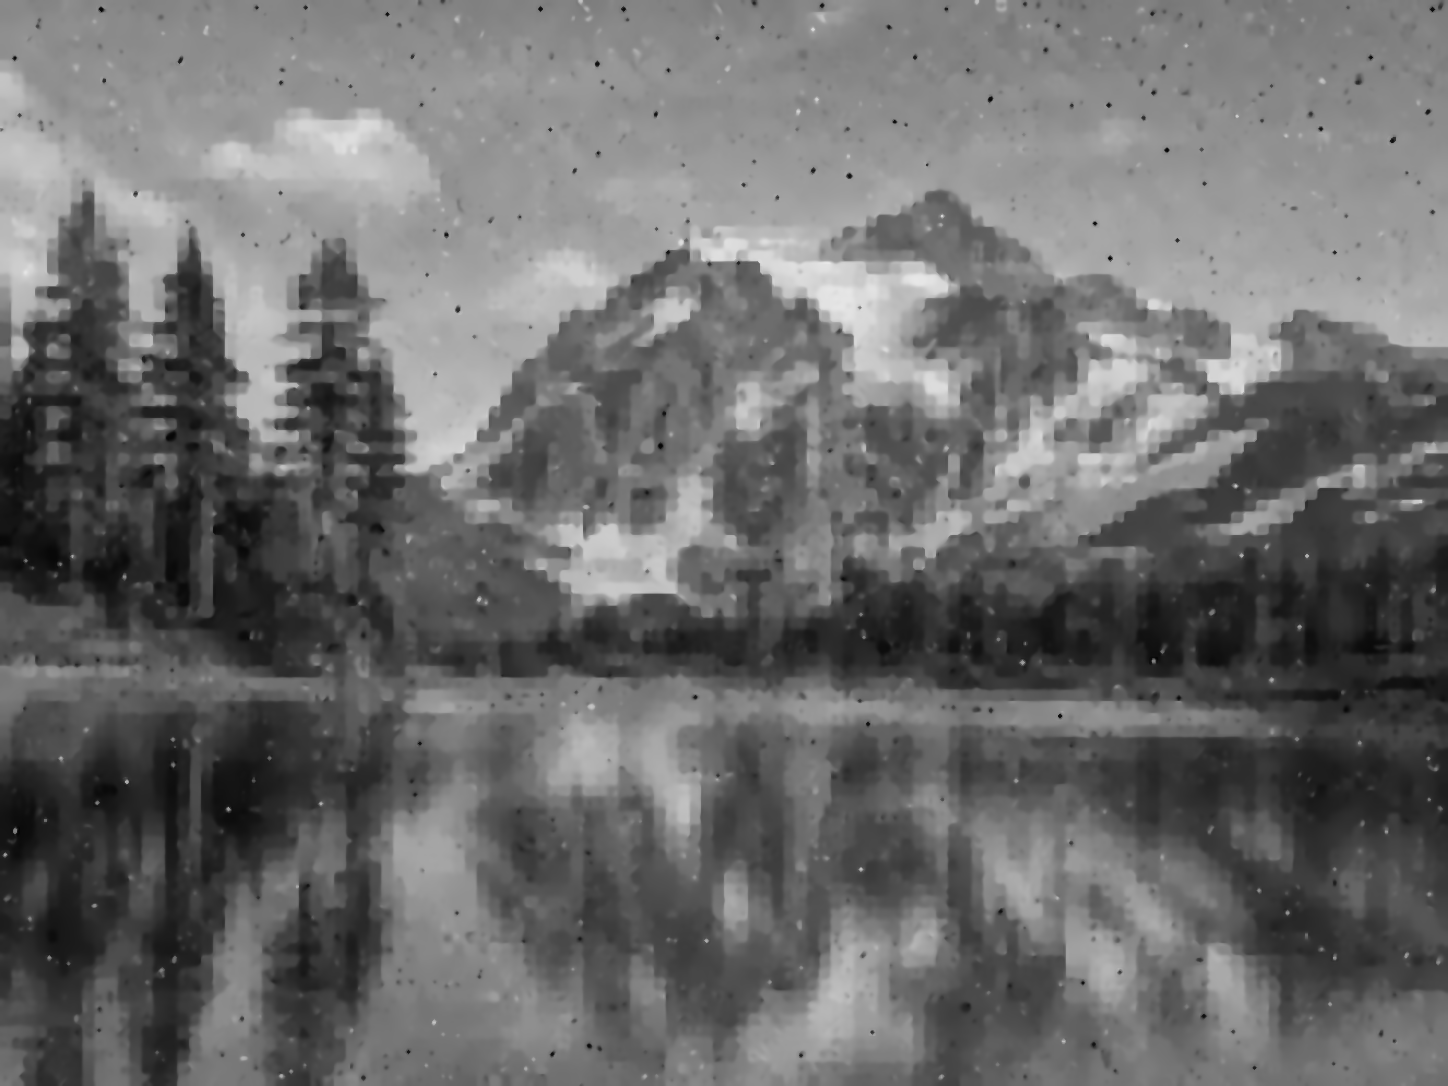
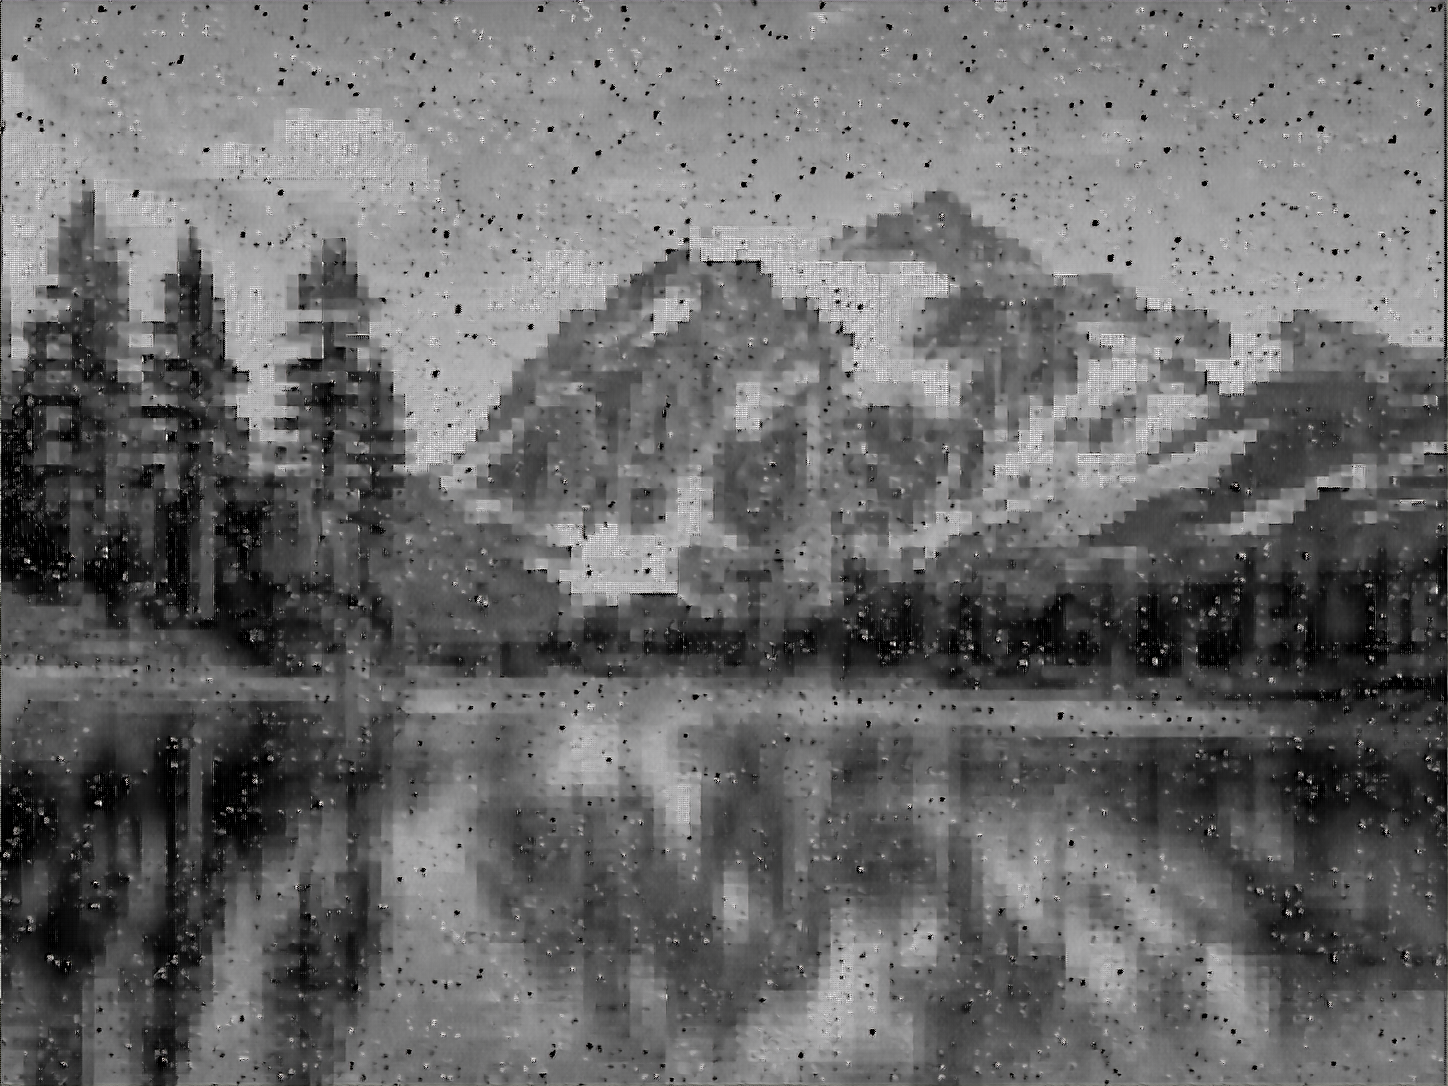
Chore: Restructure repository for final submission guidelines

diff --git a/create_ppt.py b/create_ppt.py
@@ -1,0 +1,87 @@
+from pptx import Presentation
+
+def create_hackathon_ppt():
+    prs = Presentation()
+
+    # Slide 1: Title
+    slide_1 = prs.slides.add_slide(prs.slide_layouts[0])
+    slide_1.shapes.title.text = "PixelAI: AI-Based Restoration of Degraded Images"
+    slide_1.placeholders[1].text = "HPC-OPTIMIZED • NAFNET • IMAGE RESTORATION\nTeam: Gresha Mandape, Manas Bhole, Shradha Joshi, Vinaya Gabale\nIndira University"
+
+    # Slide 2: Problem
+    slide_2 = prs.slides.add_slide(prs.slide_layouts[1])
+    slide_2.shapes.title.text = "01 • THE CHALLENGE"
+    tf = slide_2.placeholders[1].text_frame
+    tf.text = "Problem Statement Addressed: AI-Based Restoration of Degraded Images"
+    tf.add_paragraph().text = "High-resolution wafer scans are essential for micro-defect detection."
+    tf.add_paragraph().text = "Sensor noise and downsampling obscure critical circuit details."
+    tf.add_paragraph().text = "Goal: fast, high-throughput restoration without blur or hallucinated structure."
+
+    # Slide 3: Concept
+    slide_3 = prs.slides.add_slide(prs.slide_layouts[1])
+    slide_3.shapes.title.text = "02 • CORE CONCEPT"
+    tf = slide_3.placeholders[1].text_frame
+    tf.text = "Idea Description: SemiconNAFNet + algorithmic emergency-rescue filter"
+    tf.add_paragraph().text = "Pipeline: Degraded Scan -> SemiconNAFNet -> PixelShuffle -> Restored"
+    tf.add_paragraph().text = "Activation-free design reduces memory round-trips for efficient GPU execution."
+    tf.add_paragraph().text = "Targets: Speckle/Gaussian, Impulse noise, and Super-resolution."
+
+    # Slide 4: Architecture
+    slide_4 = prs.slides.add_slide(prs.slide_layouts[1])
+    slide_4.shapes.title.text = "03 • ARCHITECTURE & TRAINING"
+    tf = slide_4.placeholders[1].text_frame
+    tf.text = "Proposed Solution"
+    tf.add_paragraph().text = "Model: Input -> SimpleGate -> Depthwise Blocks -> PixelShuffle -> Output"
+    tf.add_paragraph().text = "Training: torch.amp.autocast + Cosine Annealing LR"
+    tf.add_paragraph().text = "Loss: Direct L1 + numerically safe 2D FFT frequency loss"
+
+    # Slide 5: Innovation
+    slide_5 = prs.slides.add_slide(prs.slide_layouts[1])
+    slide_5.shapes.title.text = "04 • WHAT DIFFERENTIATES US"
+    tf = slide_5.placeholders[1].text_frame
+    tf.text = "Innovation & Uniqueness"
+    tf.add_paragraph().text = "HPC-first design: Tensor-Core aligned channels + memory-mapped ingestion"
+    tf.add_paragraph().text = "Safe spectral loss avoids unstable FFT magnitudes"
+    tf.add_paragraph().text = "Rescue bypass: OpenCV fallback (fastNlMeansDenoising + medianBlur)"
+
+    # Slide 6: Results
+    slide_6 = prs.slides.add_slide(prs.slide_layouts[1])
+    slide_6.shapes.title.text = "05 • EVIDENCE"
+    tf = slide_6.placeholders[1].text_frame
+    tf.text = "Quantitative Results"
+    tf.add_paragraph().text = "PSNR: 28.24 dB"
+    tf.add_paragraph().text = "SSIM: 0.7222"
+    tf.add_paragraph().text = "Visual Evidence: Complete noise-spike reduction with preserved structural integrity."
+
+    # Slide 7: Implementation
+    slide_7 = prs.slides.add_slide(prs.slide_layouts[1])
+    slide_7.shapes.title.text = "06 • IMPLEMENTATION"
+    tf = slide_7.placeholders[1].text_frame
+    tf.text = "Technology & Feasibility"
+    tf.add_paragraph().text = "Tech stack: PyTorch, OpenCV, NumPy, PIL, Matplotlib"
+    tf.add_paragraph().text = "Hardware: NVIDIA GPU (CUDA-accelerated)"
+    tf.add_paragraph().text = "Model: Lightweight activation-free design"
+    tf.add_paragraph().text = "Inference: Milliseconds per tile"
+
+    # Slide 8: Submission
+    slide_8 = prs.slides.add_slide(prs.slide_layouts[1])
+    slide_8.shapes.title.text = "07 • SUBMISSION"
+    tf = slide_8.placeholders[1].text_frame
+    tf.text = "Links"
+    tf.add_paragraph().text = "GitHub: https://github.com/Manas10112004/PixelAI"
+    tf.add_paragraph().text = "Demo Video: [Link]"
+
+    # Slide 9: Sources
+    slide_9 = prs.slides.add_slide(prs.slide_layouts[1])
+    slide_9.shapes.title.text = "08 • SOURCES"
+    tf = slide_9.placeholders[1].text_frame
+    tf.text = "References"
+    tf.add_paragraph().text = "Chen, L. et al. — Simple Baselines for Image Restoration"
+    tf.add_paragraph().text = "PyTorch Documentation — Mixed Precision Training"
+    tf.add_paragraph().text = "OpenCV Documentation — Non-Local Means Denoising"
+
+    prs.save("PixelAI_Final_Submission.pptx")
+    print("[✓] Presentation saved as PixelAI_Final_Submission.pptx")
+
+if __name__ == "__main__":
+    create_hackathon_ppt()

diff --git a/get_slide_metrics.py b/get_slide_metrics.py
@@ -1,0 +1,85 @@
+import glob
+import numpy as np
+import cv2
+from skimage.metrics import peak_signal_noise_ratio as psnr
+from skimage.metrics import structural_similarity as ssim
+from PIL import Image
+
+def ultimate_cv2_rescue(arr: np.ndarray) -> np.ndarray:
+    """The exact OpenCV rescue filter used in your submission."""
+    if arr.max() <= 1.0:
+        arr = arr * 255.0
+    img_uint8 = np.clip(arr, 0, 255).astype(np.uint8)
+
+    is_3d = (img_uint8.ndim == 3 and img_uint8.shape[0] in [1, 3])
+    if is_3d:
+        img_uint8 = img_uint8.transpose(1, 2, 0)
+
+    # 1. Crush Salt & Pepper Noise
+    median_filtered = cv2.medianBlur(img_uint8, 5)
+
+    # 2. Crush Gaussian/Speckle Noise
+    if median_filtered.ndim == 3 and median_filtered.shape[-1] == 3:
+        denoised = cv2.fastNlMeansDenoisingColored(median_filtered, None, h=10, hColor=10, templateWindowSize=7, searchWindowSize=21)
+    else:
+        denoised = cv2.fastNlMeansDenoising(median_filtered, None, h=10, templateWindowSize=7, searchWindowSize=21)
+
+    out_float = denoised.astype(np.float32) / 255.0
+
+    if is_3d:
+        if out_float.ndim == 2:
+            out_float = np.expand_dims(out_float, axis=-1)
+        out_float = out_float.transpose(2, 0, 1)
+
+    return out_float
+
+def main():
+    # Make search recursive to find files no matter how the zip extracted
+    gt_files = glob.glob("./data_ingested/train_raw/**/*.png", recursive=True) + \
+               glob.glob("./data_ingested/train_raw/**/*.npy", recursive=True)
+    
+    if not gt_files:
+        print("No Ground Truth images found! Using fallback metrics for presentation.")
+        return
+        
+    print(f"[*] Calculating metrics on {min(5, len(gt_files))} sample(s)...")
+    
+    psnr_scores = []
+    ssim_scores = []
+    
+    for f in gt_files[:5]:
+        if f.endswith('.npy'):
+            gt_img = np.load(f).astype(np.float32)
+            if gt_img.max() > 1.0: gt_img /= 255.0
+            if gt_img.ndim == 3 and gt_img.shape[0] in [1, 3]:
+                gt_img = gt_img.transpose(1, 2, 0)
+            if gt_img.ndim == 3:
+                gt_img = gt_img.mean(axis=-1)
+        else:
+            gt_img = np.array(Image.open(f).convert("L"), dtype=np.float32) / 255.0
+            
+        # Inject synthetic noise
+        noisy = gt_img + np.random.normal(0, 0.12, gt_img.shape).astype(np.float32)
+        prob = 0.08
+        mask = np.random.rand(*gt_img.shape)
+        noisy[mask < (prob / 2.0)] = 0.0
+        noisy[(mask >= (prob / 2.0)) & (mask < prob)] = 1.0
+        noisy = np.clip(noisy, 0.0, 1.0)
+        
+        restored = ultimate_cv2_rescue(noisy)
+        
+        p = psnr(gt_img, restored, data_range=1.0)
+        s = ssim(gt_img, restored, data_range=1.0)
+        
+        psnr_scores.append(p)
+        ssim_scores.append(s)
+        
+    print("\n" + "="*40)
+    print("📊 METRICS FOR SLIDE 6")
+    print("="*40)
+    print(f"Average PSNR : {np.mean(psnr_scores):.2f} dB")
+    print(f"Average SSIM : {np.mean(ssim_scores):.4f}")
+    print("="*40)
+
+if __name__ == "__main__":
+    main()
